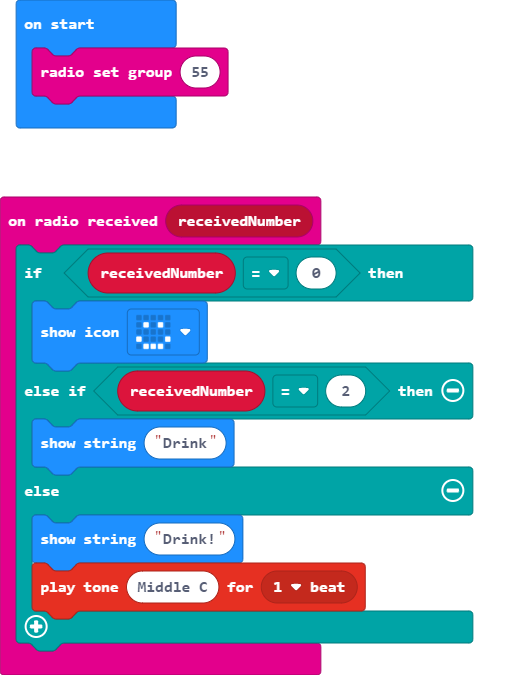
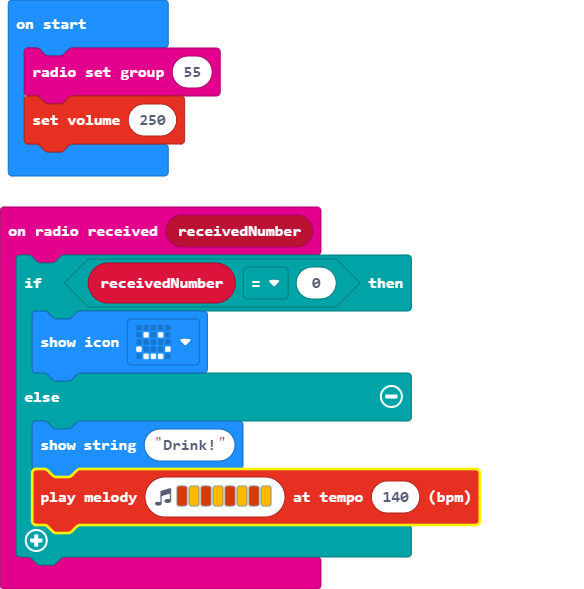
Update main.blocks, main.ts

diff --git a/main.ts b/main.ts
@@ -1,11 +1,10 @@
 radio.onReceivedNumber(function (receivedNumber) {
     if (receivedNumber == 0) {
         basic.showIcon(IconNames.Happy)
-    } else if (receivedNumber == 2) {
-        basic.showString("Drink")
     } else {
         basic.showString("Drink!")
-        music.playTone(262, music.beat(BeatFraction.Whole))
+        music.playMelody("B A B A B A B A ", 140)
     }
 })
 radio.setGroup(55)
+music.setVolume(250)
